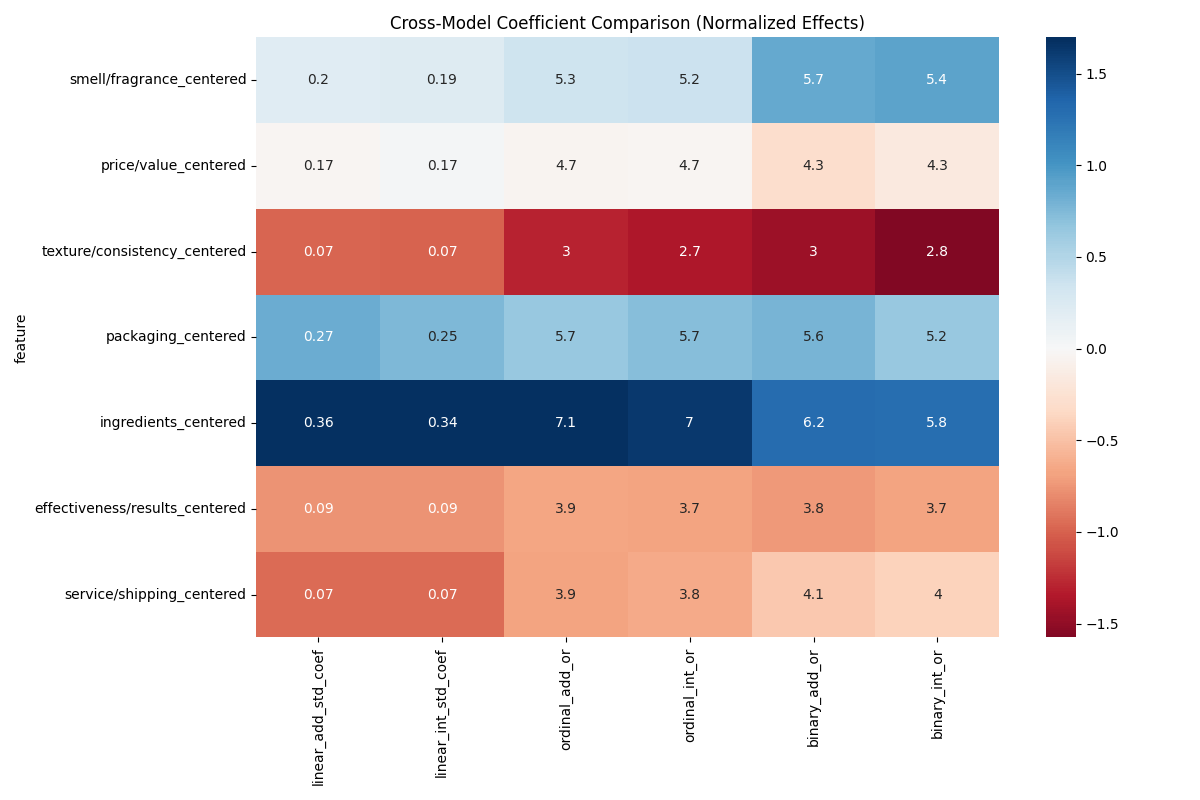
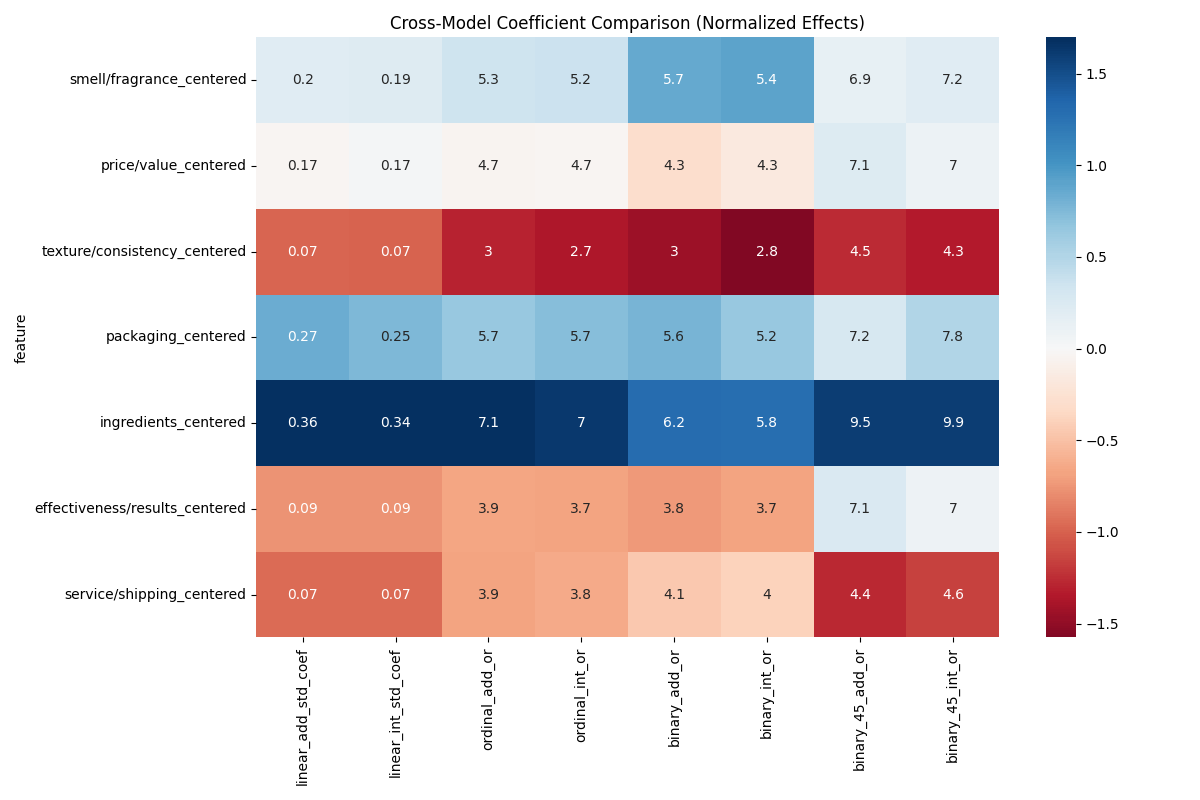
Add Binary (4-5 vs 1-3) logistic regression model
- New run_binary_45_cv() in modeling_alternative.py for 5-fold CV
- New section C_45 in interpretability_analysis.py with coefficients,
  odds ratios, CIs, AME, confusion matrices, and plots
- Extended cross_model_comparison.csv and interaction_summary.csv
  with binary_45 columns
- All outputs saved to uniquely named binary_45_* files

diff --git a/interpretability_analysis.py b/interpretability_analysis.py
@@ -398,6 +398,73 @@ def run_interpretability_analysis():
     plt.savefig(f"{OUTPUT_DIR}/binary_ame_plot.png")
     plt.close()
 
+    # --- C_45. Binary Models (4-5 vs 1-3 Stars) ---
+    logger.info("Fitting Binary (4-5 vs 1-3) Models...")
+    y_bin_45 = (y_ord >= 4).astype(int)
+    binary_45_labels = [0, 1]
+    
+    # C_45.1 Additive
+    model_bin45_add = sm.Logit(y_bin_45, sm.add_constant(data[base_centered_cols])).fit(method='bfgs', maxiter=500, disp=False)
+    df_bin45_add = get_statsmodels_summary_df(model_bin45_add)
+    df_bin45_add['model'] = 'Additive'
+    bic_results['Binary_45 Additive'] = model_bin45_add.bic
+    
+    # Confusion Matrix (Additive)
+    probs_bin45_add = model_bin45_add.predict(sm.add_constant(data[base_centered_cols]))
+    preds_bin45_add = (probs_bin45_add > 0.5).astype(int)
+    cm_bin45_add = confusion_matrix(y_bin_45, preds_bin45_add, labels=binary_45_labels)
+    plot_confusion_matrix(cm_bin45_add, ["1-3 Stars", "4-5 Stars"], "Binary (4-5) Additive Confusion Matrix", "binary_45_add_cm.png")
+    pd.DataFrame(cm_bin45_add, index=binary_45_labels, columns=binary_45_labels).to_csv(f"{OUTPUT_DIR}/binary_45_add_cm.csv")
+
+    # C_45.2 Interaction
+    model_bin45_int = sm.Logit(y_bin_45, sm.add_constant(data_int[base_centered_cols + interaction_cols])).fit(method='bfgs', maxiter=500, disp=False)
+    df_bin45_int = get_statsmodels_summary_df(model_bin45_int)
+    df_bin45_int['model'] = 'Interaction'
+    bic_results['Binary_45 Interaction'] = model_bin45_int.bic
+
+    # Confusion Matrix (Interaction)
+    probs_bin45_int = model_bin45_int.predict(sm.add_constant(data_int[base_centered_cols + interaction_cols]))
+    preds_bin45_int = (probs_bin45_int > 0.5).astype(int)
+    cm_bin45_int = confusion_matrix(y_bin_45, preds_bin45_int, labels=binary_45_labels)
+    plot_confusion_matrix(cm_bin45_int, ["1-3 Stars", "4-5 Stars"], "Binary (4-5) Interaction Confusion Matrix", "binary_45_int_cm.png")
+    pd.DataFrame(cm_bin45_int, index=binary_45_labels, columns=binary_45_labels).to_csv(f"{OUTPUT_DIR}/binary_45_int_cm.csv")
+    
+    df_binary_45 = pd.concat([df_bin45_add, df_bin45_int])
+    df_binary_45['odds_ratio'] = np.exp(df_binary_45['coefficient'])
+    df_binary_45['or_ci_lower'] = np.exp(df_binary_45['ci_lower_95'])
+    df_binary_45['or_ci_upper'] = np.exp(df_binary_45['ci_upper_95'])
+    df_binary_45.to_csv(f"{OUTPUT_DIR}/binary_45_coefficients.csv", index=False)
+    
+    sig_features['Binary_45 Additive'] = df_bin45_add[df_bin45_add['significant']]['feature'].tolist()
+    sig_features['Binary_45 Interaction'] = df_bin45_int[df_bin45_int['significant']]['feature'].tolist()
+
+    # C_45.3 Average Marginal Effects (AME)
+    logger.info("Computing Binary (4-5) AME...")
+    ame_45_add = get_ame_df(model_bin45_add, 'Additive')
+    ame_45_int = get_ame_df(model_bin45_int, 'Interaction')
+    
+    df_ame_45 = pd.concat([ame_45_add, ame_45_int])
+    df_ame_45[['feature', 'ame', 'std_error', 'p_value', 'model']].to_csv(f"{OUTPUT_DIR}/binary_45_ame.csv", index=False)
+
+    # C_45.4 Odds Ratio Plot (Binary 4-5)
+    plt.figure(figsize=(12, 8))
+    df_bin45_or = df_binary_45[df_binary_45['feature'].isin(base_centered_cols)]
+    sns.barplot(data=df_bin45_or, x='odds_ratio', y='feature', hue='model')
+    plt.axvline(1, color='black', linestyle='--', alpha=0.5)
+    plt.title("Binary (4-5) Odds Ratios (Main Effects on P(4-5 star))")
+    plt.tight_layout()
+    plt.savefig(f"{OUTPUT_DIR}/binary_45_odds_ratio_plot.png")
+    plt.close()
+
+    # C_45.5 AME Plot
+    plt.figure(figsize=(12, 8))
+    df_ame_45_plot = df_ame_45[df_ame_45['feature'].isin(base_centered_cols)]
+    sns.barplot(data=df_ame_45_plot, x='ame', y='feature', hue='model')
+    plt.title("Average Marginal Effects on P(4-5 star)")
+    plt.tight_layout()
+    plt.savefig(f"{OUTPUT_DIR}/binary_45_ame_plot.png")
+    plt.close()
+
     # --- D. Cross-Model Comparison ---
     logger.info("Performing Cross-Model Comparison...")
     comparison_data = []
@@ -409,6 +476,8 @@ def run_interpretability_analysis():
         row['ordinal_int_or'] = df_ordinal[(df_ordinal['feature'] == aspect) & (df_ordinal['model'] == 'Interaction')]['odds_ratio'].values[0]
         row['binary_add_or'] = df_binary[(df_binary['feature'] == aspect) & (df_binary['model'] == 'Additive')]['odds_ratio'].values[0]
         row['binary_int_or'] = df_binary[(df_binary['feature'] == aspect) & (df_binary['model'] == 'Interaction')]['odds_ratio'].values[0]
+        row['binary_45_add_or'] = df_binary_45[(df_binary_45['feature'] == aspect) & (df_binary_45['model'] == 'Additive')]['odds_ratio'].values[0]
+        row['binary_45_int_or'] = df_binary_45[(df_binary_45['feature'] == aspect) & (df_binary_45['model'] == 'Interaction')]['odds_ratio'].values[0]
         comparison_data.append(row)
     pd.DataFrame(comparison_data).to_csv(f"{OUTPUT_DIR}/cross_model_comparison.csv", index=False)
 
@@ -428,15 +497,18 @@ def run_interpretability_analysis():
         l_row = df_lin_int[df_lin_int['feature'] == feat]
         o_row = df_ord_int[df_ord_int['feature'] == feat]
         b_row = df_bin_int[df_bin_int['feature'] == feat]
+        b45_row = df_bin45_int[df_bin45_int['feature'] == feat]
         l_c, l_p = l_row['coefficient'].values[0], l_row['p_value'].values[0]
         o_c, o_p = o_row['coefficient'].values[0], o_row['p_value'].values[0]
         b_c, b_p = b_row['coefficient'].values[0], b_row['p_value'].values[0]
-        consistent = (np.sign(l_c) == np.sign(o_c) == np.sign(b_c))
+        b45_c, b45_p = b45_row['coefficient'].values[0], b45_row['p_value'].values[0]
+        consistent = (np.sign(l_c) == np.sign(o_c) == np.sign(b_c) == np.sign(b45_c))
         inter_summary.append({
             'interaction_pair': feat,
             'linear_coef': l_c, 'linear_p': l_p,
             'ordinal_coef': o_c, 'ordinal_p': o_p,
             'binary_coef': b_c, 'binary_p': b_p,
+            'binary_45_coef': b45_c, 'binary_45_p': b45_p,
             'consistent_sign': consistent
         })
     pd.DataFrame(inter_summary).to_csv(f"{OUTPUT_DIR}/interaction_summary.csv", index=False)

diff --git a/src/modeling_alternative.py b/src/modeling_alternative.py
@@ -281,6 +281,97 @@ def run_binary_cv(df):
         
     return results
 
+def run_binary_45_cv(df):
+    """
+    Performs 5-fold CV for Binary Logistic Regression (Additive & Interaction).
+    Target: 4-5 stars = 1, 1-3 stars = 0.
+    
+    This is a separate binary model with a different threshold than run_binary_cv(),
+    which uses 5-stars vs. 1-4 stars.
+    
+    Args:
+        df (pd.DataFrame): DataFrame with 'aspect_sentiments' and 'rating'.
+        
+    Returns:
+        dict: Dictionary with 'additive' and 'interaction' keys, each containing
+              a list of per-fold metric dictionaries (accuracy, roc_auc, f1, bic,
+              confusion_matrix).
+    """
+    raw_data = prepare_raw_modeling_data(df)
+    
+    # Binarize target: 4-5 stars = 1, 1-3 stars = 0
+    raw_data['binary_rating_45'] = (raw_data['rating'] >= 4).astype(int)
+    
+    kf = KFold(n_splits=5, shuffle=True, random_state=42)
+    
+    results = {
+        'additive': [],
+        'interaction': []
+    }
+    
+    logger.info("Starting Binary (4-5 vs 1-3) Logistic Regression Cross-Validation...")
+    
+    fold = 1
+    for train_index, test_index in kf.split(raw_data):
+        logger.info(f"Processing Fold {fold}/5 (Binary 4-5)...")
+        
+        train_df = raw_data.iloc[train_index].copy()
+        test_df = raw_data.iloc[test_index].copy()
+        
+        # Centering (Leakage-Free)
+        train_means = train_df[CORE_ASPECTS].mean()
+        for col in CORE_ASPECTS:
+            train_df[f"{col}_centered"] = train_df[col] - train_means[col]
+            test_df[f"{col}_centered"] = test_df[col] - train_means[col]
+            
+        y_train = train_df['binary_rating_45']
+        y_test = test_df['binary_rating_45']
+        
+        base_centered_cols = [f"{col}_centered" for col in CORE_ASPECTS]
+        
+        # 1. Additive Model
+        X_train_base = sm.add_constant(train_df[base_centered_cols])
+        X_test_base = sm.add_constant(test_df[base_centered_cols])
+        
+        # Use statsmodels for BIC consistency
+        model_add = sm.Logit(y_train, X_train_base).fit(disp=False)
+        
+        probs_add = model_add.predict(X_test_base)
+        preds_add = (probs_add > 0.5).astype(int)
+        
+        results['additive'].append({
+            'accuracy': accuracy_score(y_test, preds_add),
+            'roc_auc': roc_auc_score(y_test, probs_add),
+            'f1': f1_score(y_test, preds_add),
+            'bic': model_add.bic,
+            'confusion_matrix': confusion_matrix(y_test, preds_add, labels=[0, 1])
+        })
+        
+        # 2. Interaction Model
+        G_fold = construct_partial_correlation_network(train_df[CORE_ASPECTS])
+        train_df_int, interaction_cols = get_network_interactions(train_df, G_fold)
+        test_df_int, _ = get_network_interactions(test_df, G_fold)
+        
+        X_train_net = sm.add_constant(train_df_int[base_centered_cols + interaction_cols])
+        X_test_net = sm.add_constant(test_df_int[base_centered_cols + interaction_cols])
+        
+        model_int = sm.Logit(y_train, X_train_net).fit(disp=False)
+        
+        probs_int = model_int.predict(X_test_net)
+        preds_int = (probs_int > 0.5).astype(int)
+        
+        results['interaction'].append({
+            'accuracy': accuracy_score(y_test, preds_int),
+            'roc_auc': roc_auc_score(y_test, probs_int),
+            'f1': f1_score(y_test, preds_int),
+            'bic': model_int.bic,
+            'confusion_matrix': confusion_matrix(y_test, preds_int, labels=[0, 1])
+        })
+        
+        fold += 1
+        
+    return results
+
 def get_existing_results():
     """
     Returns the already-saved results for Linear models.
@@ -356,10 +447,13 @@ if __name__ == "__main__":
     # Run CV and save
     ord_res = run_ordinal_cv(df)
     bin_res = run_binary_cv(df)
+    bin45_res = run_binary_45_cv(df)
     
     with open('model_ordinal_results.pkl', 'wb') as f:
         pickle.dump(ord_res, f)
     with open('model_binary_results.pkl', 'wb') as f:
         pickle.dump(bin_res, f)
+    with open('model_binary_45_results.pkl', 'wb') as f:
+        pickle.dump(bin45_res, f)
     
     logger.info("Full analysis and diagnostics complete.")
